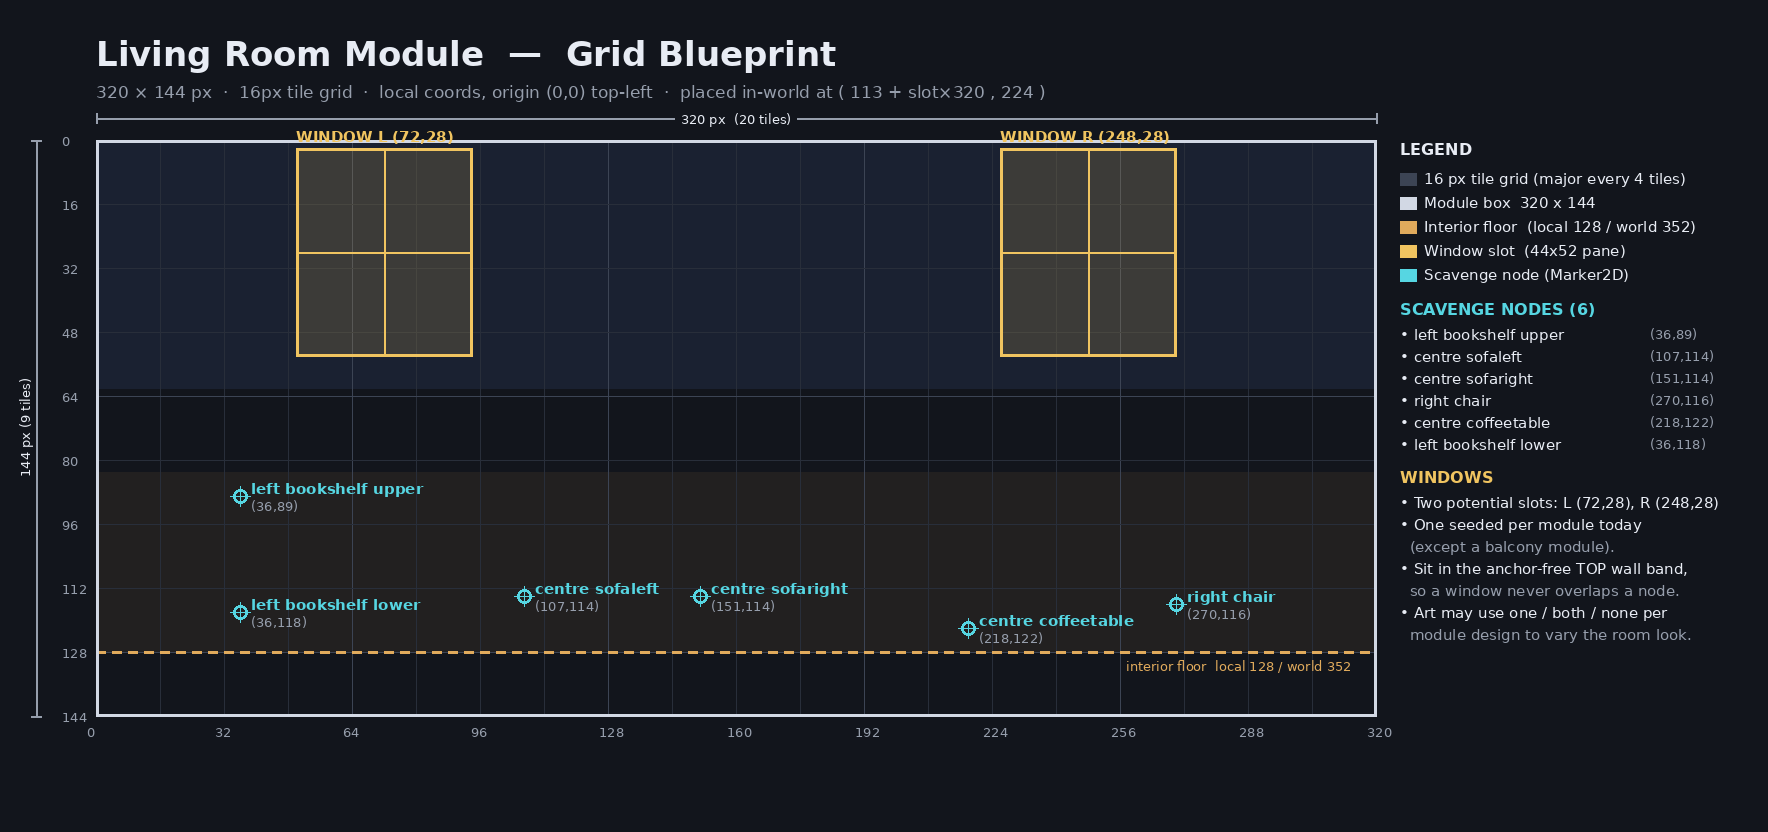
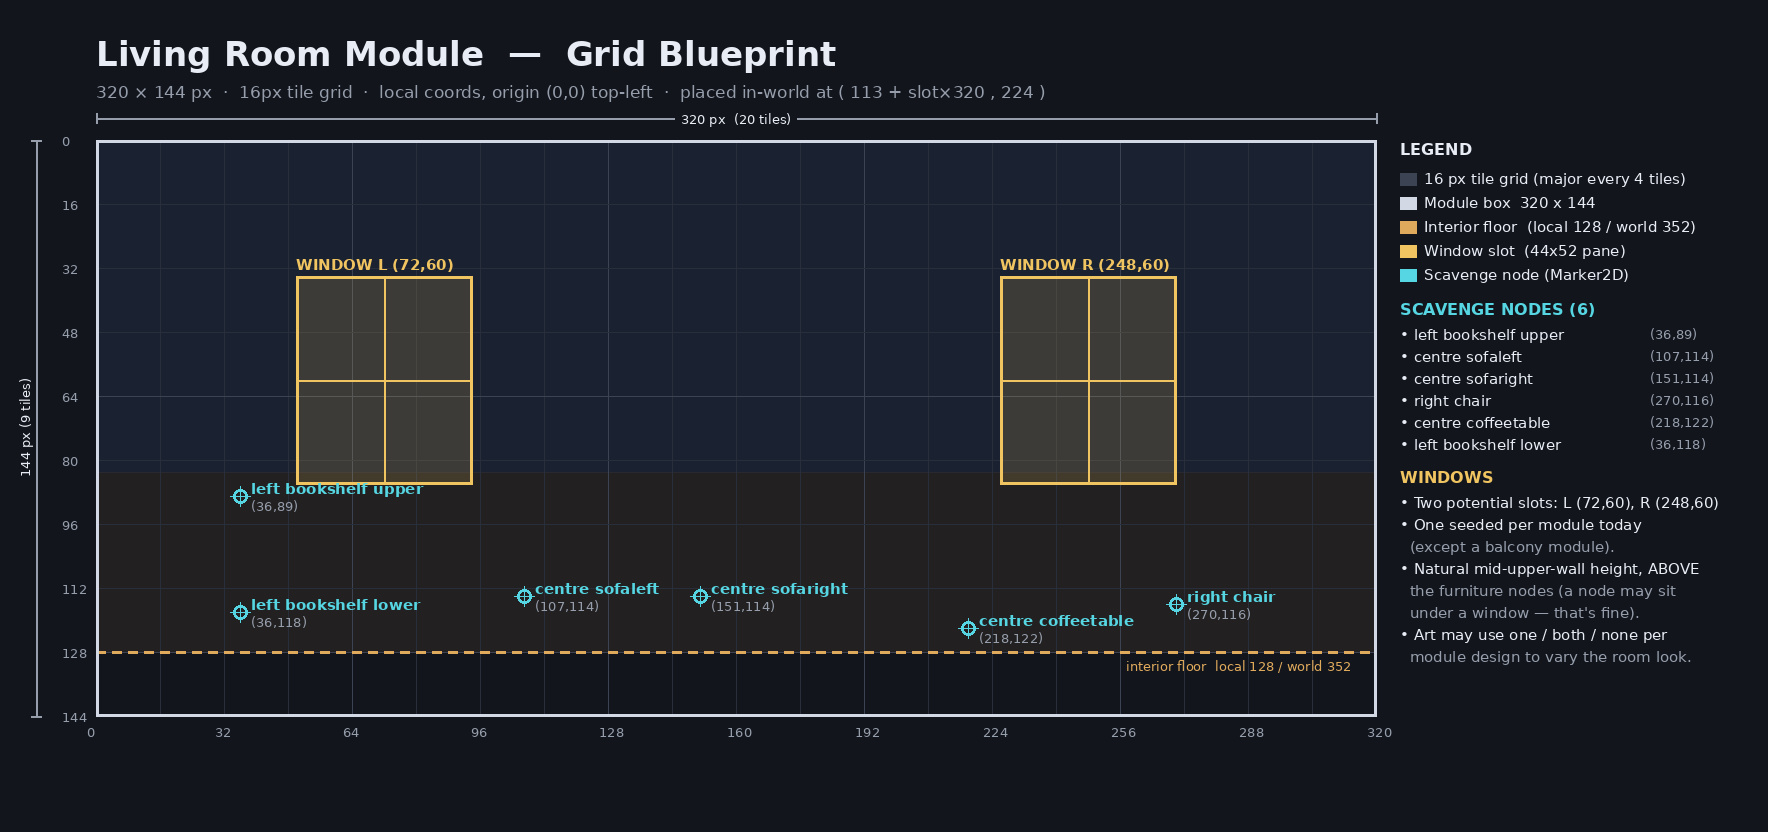
Lower apartment windows to a natural wall height
The windows were jammed near the ceiling (world Y 252 / local 28) to force a big
gap from the scavenge nodes, which read unnatural. Dropped them to a NATURAL
mid-upper-wall height (world Y 284 / local 60, ~the wall's vertical middle above
the floor) — still ABOVE every scavenge node so a window never obscures a node's
interaction point, but a node may now sit under a window (a bookshelf/sofa below
a window is natural). Regenerated the living-room blueprint; test now asserts the
window centre sits above every node rather than a forced anchor-free band.

All 32 suites pass. Docs (CLAUDE.md, Y_PLANES.md) updated.

Claude-Session: https://claude.ai/code/session_018G5NCP3m9WbvqqpohXSrqQ

diff --git a/tools/gen_module_blueprint.py b/tools/gen_module_blueprint.py
@@ -24,7 +24,7 @@ OUT_DIR = os.path.join(ROOT, "docs", "art_reference", "blueprints")
 MODULE_W, MODULE_H = 320, 144          # module box (px); ColorRect size in every module
 TILE = 16                              # world tile grid
 WINDOW_INSET = 72                      # room.MODULE_WINDOW_INSET
-WINDOW_Y_LOCAL = 252 - 224            # room.MODULE_WINDOW_Y(252) - module world-top(224)
+WINDOW_Y_LOCAL = 284 - 224            # room.MODULE_WINDOW_Y(284) - module world-top(224)
 FLOOR_Y_LOCAL = 352 - 224             # room._FLOOR_Y(352) world -> module-local
 PANE_HW, PANE_HH = 22, 26             # apartment_window pane half-extents
 LEFT_WALL_X = 113                      # room.LEFT_WALL_X (world x of module slot 0)
@@ -201,11 +201,12 @@ def _legend(d, x, y, anchors):
     d.text((x, y), "WINDOWS", font=F_LEGB, fill=WINDOW_COL)
     y += 26
     for line in [
-        "• Two potential slots: L (72,28), R (248,28)",
+        "• Two potential slots: L (%d,%d), R (%d,%d)" % (WINDOW_INSET, WINDOW_Y_LOCAL, MODULE_W - WINDOW_INSET, WINDOW_Y_LOCAL),
         "• One seeded per module today",
         "  (except a balcony module).",
-        "• Sit in the anchor-free TOP wall band,",
-        "  so a window never overlaps a node.",
+        "• Natural mid-upper-wall height, ABOVE",
+        "  the furniture nodes (a node may sit",
+        "  under a window — that's fine).",
         "• Art may use one / both / none per",
         "  module design to vary the room look.",
     ]:

diff --git a/CLAUDE.md b/CLAUDE.md
@@ -695,9 +695,12 @@ means no rendering — UI layout and art still need an in-editor look.
   module gets ONE window at a seeded LEFT/RIGHT wall slot (`WorldState.apartment_window_side`,
   stable across runs — a physical feature). The two slots are the hook for a future module-art
   pass to vary which walls are glazed (one/both/none) so rooms aren't samey; today each
-  non-balcony module has exactly one. Placed in the anchor-free TOP wall band (world Y 252,
-  `room.MODULE_WINDOW_Y`) so it never overlaps a scavenge node (anchors are furniture-level,
-  world Y ~300+; measured). Natural light via the shared `FloorLighting.make_window_light`
+  non-balcony module has exactly one. Placed at a NATURAL mid-upper-wall height (world Y 284,
+  `room.MODULE_WINDOW_Y`, module-local 60) — ABOVE the scavenge nodes (furniture-level, world
+  Y ~300+) so it never obscures a node, but not jammed at the ceiling (an earlier Y 252 read
+  unnatural). A node may sit under a window (fine). Per-module grid blueprints via
+  `tools/gen_module_blueprint.py` → `docs/art_reference/blueprints/` (reads the real .tscn, so
+  it can't drift; reusable for all six modules). Natural light via the shared `FloorLighting.make_window_light`
   (now takes an `energy_scale`; apartment windows run 1.3× since a flat has no ceiling lamps) —
   bright cool DAY, warm AFTERNOON, dim blue MOONLIGHT at NIGHT. On live NIGHT runs a single
   `apartment_storm` per flat drives a RAIN hiss loop + synced LIGHTNING that flashes every

diff --git a/docs/Y_PLANES.md b/docs/Y_PLANES.md
@@ -61,9 +61,12 @@ the player, but the floor collider resolves feet back to 419.
 Apartment interiors (`room.tscn`): module ColorRect is 320×144 at instance y 224, so a
 module spans world Y 224..368; the interior floor is Y 352. Scavenge anchors (Marker2D)
 sit at module-local y 76..131 → world **~300..355** (furniture level). WALL WINDOWS
-(`apartment_window.gd`, one per non-balcony module, seeded left/right) ride the anchor-free
-TOP band at world Y **252** (`room.MODULE_WINDOW_Y`), so a window's light/rain/future art
-never overlaps a search node. The balcony window light stays at world Y 210.
+(`apartment_window.gd`, one per non-balcony module, seeded left/right) sit at a NATURAL
+mid-upper-wall height, world Y **284** (`room.MODULE_WINDOW_Y`, module-local 60) — ABOVE
+every scavenge node so they never obscure a node's interaction point, but not jammed at the
+ceiling (an earlier build put them at Y 252 to force a big gap, which read unnatural). A
+node may sit under a window (a sofa below a window is fine). The balcony window light stays
+at world Y 210. Per-module blueprints: `tools/gen_module_blueprint.py`.
 
 ---
 
